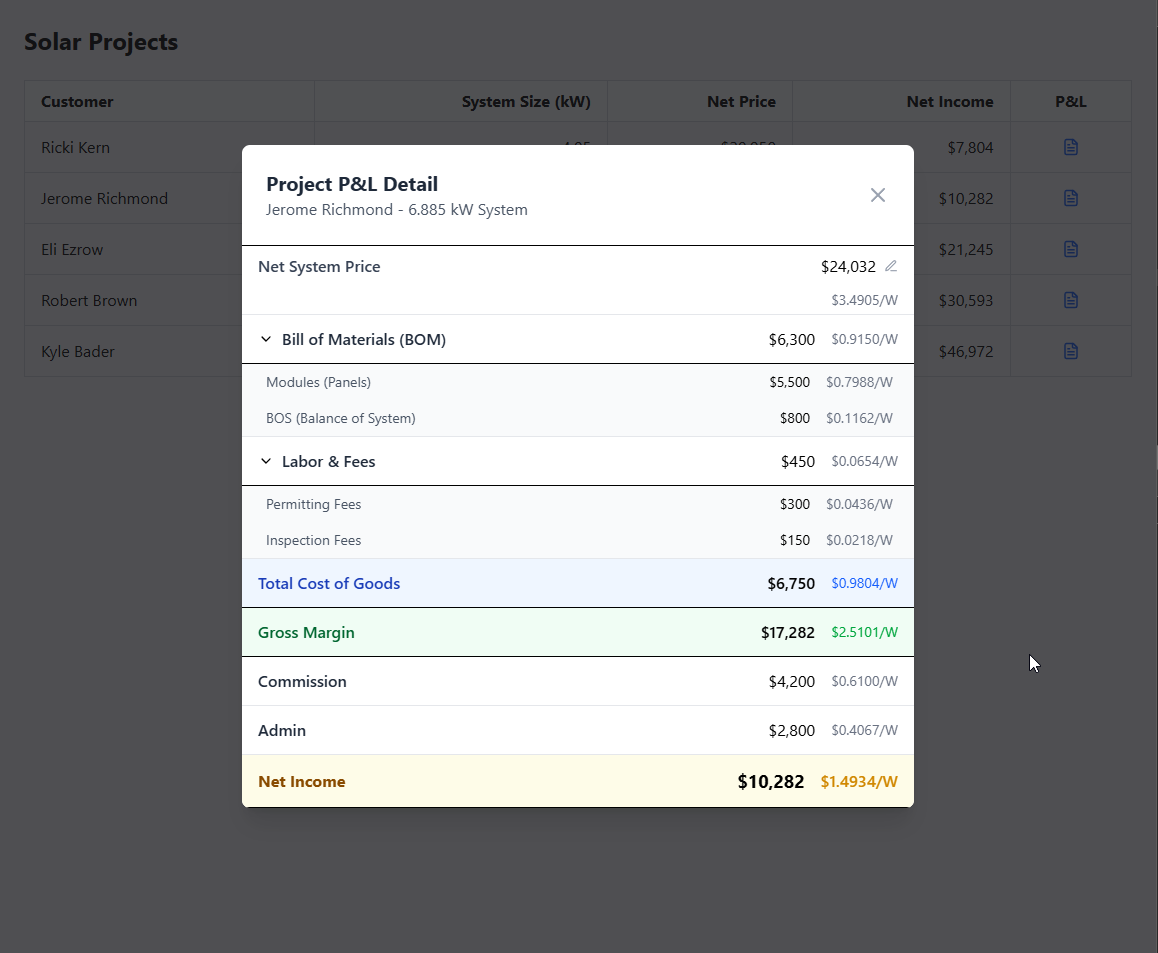
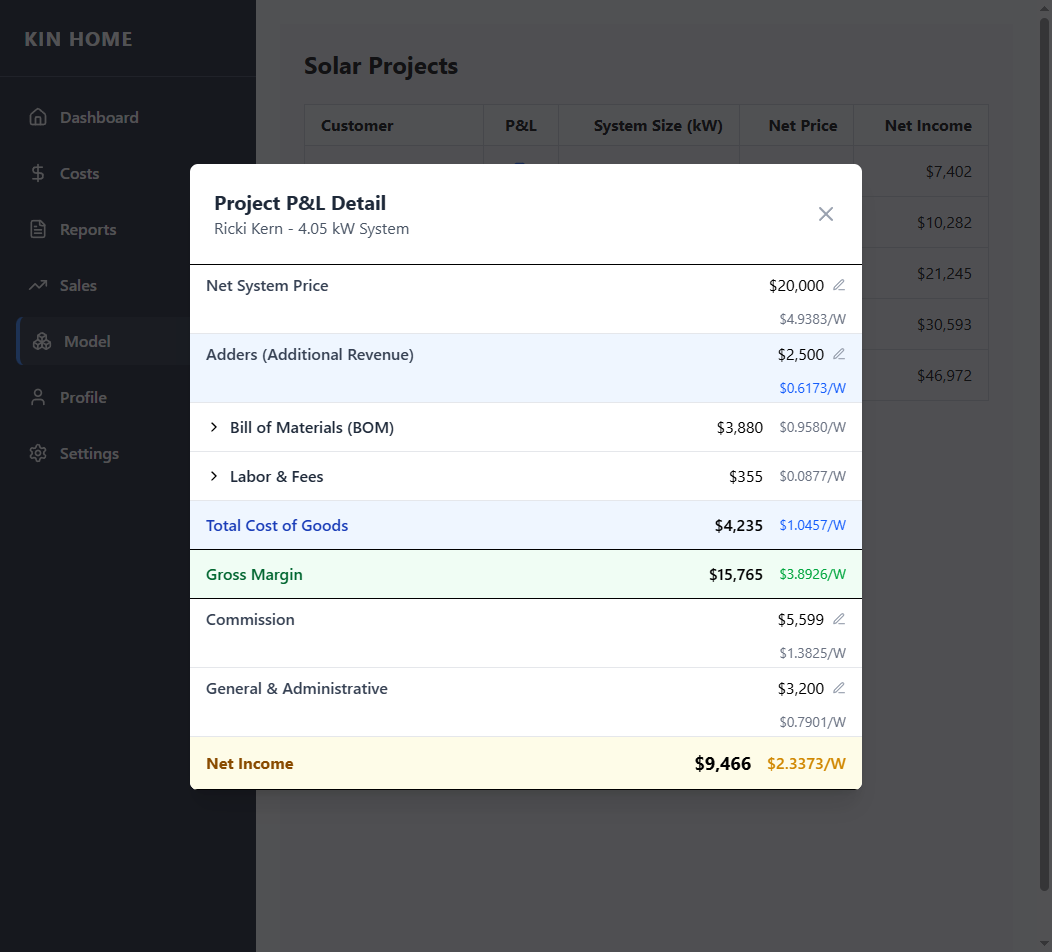
feat: model page - added columns, editing certain columns affects others, works

diff --git a/src/lib/components/ProjectPLModal.svelte b/src/lib/components/ProjectPLModal.svelte
@@ -19,6 +19,19 @@
 	// Get breakdown by category
 	const bomBreakdown = $derived(breakdown.find((b) => b.categoryName === 'BOM'));
 	const laborBreakdown = $derived(breakdown.find((b) => b.categoryName === 'Labor'));
+	const commissionBreakdown = $derived(breakdown.find((b) => b.categoryName === 'Commission'));
+	const adminBreakdown = $derived(breakdown.find((b) => b.categoryName === 'Admin'));
+	const addersBreakdown = $derived(breakdown.find((b) => b.categoryName === 'Adders'));
+
+	// Get current values for commission, admin, and adders
+	const commissionAmount = $derived(commissionBreakdown?.total || 0);
+	const adminAmount = $derived(adminBreakdown?.total || 0);
+	const addersAmount = $derived(addersBreakdown?.total || 0);
+
+	// Recalculated values based on current data
+	const totalCogs = $derived((calculations?.totalCogs || 0));
+	const grossMargin = $derived((project?.netSystemPrice || 0) - totalCogs);
+	const netIncome = $derived(grossMargin - commissionAmount - adminAmount + addersAmount);
 </script>
 
 {#snippet EditableField(label: string, field: string, value: number, isPerWatt: boolean = false)}
@@ -112,7 +125,7 @@
 	<div
 		class="bg-[hsl(229.85deg_4.98%_9.89%_/_75%)] bg-opacity-50 fixed inset-0 z-50 flex items-center justify-center"
 	>
-		<div class="max-h-[90vh] w-full max-w-2xl overflow-hidden rounded-lg bg-white shadow-xl">
+		<div class="max-h-[92vh] w-full max-w-2xl overflow-hidden rounded-lg bg-white shadow-xl">
 			<div class="flex items-center justify-between border-b p-6">
 				<div>
 					<h2 class="text-xl font-bold text-gray-800">Project P&L Detail</h2>
@@ -132,6 +145,14 @@
 					{@render EditableField('Net System Price', 'netSystemPrice', project.netSystemPrice)}
 					<div class="px-4 py-1 text-right text-sm text-gray-500">
 						${(project.netSystemPrice / watts).toFixed(4)}/W
+					</div>
+				</div>
+
+				<!-- Adders Section (Revenue) -->
+				<div class="border-b border-gray-200 bg-blue-50">
+					{@render EditableField('Adders (Additional Revenue)', 'lineItem-18', addersAmount)}
+					<div class="px-4 py-1 text-right text-sm text-blue-600">
+						${(addersAmount / watts).toFixed(4)}/W
 					</div>
 				</div>
 
@@ -173,42 +194,42 @@
 						<div class="flex items-center justify-between px-4 py-3">
 							<span class="font-semibold text-green-800">Gross Margin</span>
 							<div class="flex items-center gap-4">
-								<span class="font-semibold">${calculations.grossMargin.toLocaleString()}</span>
+								<span class="font-semibold">${grossMargin.toLocaleString()}</span>
 								<span class="text-sm text-green-600"
-									>${calculations.perWattCosts.grossMarginPerWatt.toFixed(4)}/W</span
+									>${(grossMargin / watts).toFixed(4)}/W</span
 								>
 							</div>
 						</div>
 					</div>
 				{/if}
 
-				<!-- Operating Expenses (if available in breakdown) -->
-				{#each breakdown.filter((b) => b.categoryName === 'Commission' || b.categoryName === 'Admin') as category}
-					<div class="border-b border-gray-200">
-						<div class="flex items-center justify-between px-4 py-3">
-							<span class="font-semibold text-gray-800">{category.categoryName}</span>
-							<div class="flex items-center gap-4">
-								<span class="text-right">${category.total.toLocaleString()}</span>
-								<span class="text-sm text-gray-500">${(category.total / watts).toFixed(4)}/W</span>
-							</div>
-						</div>
+				<!-- Operating Expenses -->
+				<div class="border-b border-gray-200">
+					{@render EditableField('Commission', 'lineItem-16', commissionAmount)}
+					<div class="px-4 py-1 text-right text-sm text-gray-500">
+						${(commissionAmount / watts).toFixed(4)}/W
 					</div>
-				{/each}
+				</div>
 
-				{#if calculations}
-					<!-- Net Income -->
-					<div class="border-b bg-yellow-50">
-						<div class="flex items-center justify-between px-4 py-3">
-							<span class="font-bold text-yellow-800">Net Income</span>
-							<div class="flex items-center gap-4">
-								<span class="text-lg font-bold">${calculations.netIncome.toLocaleString()}</span>
-								<span class="font-medium text-yellow-600"
-									>${calculations.perWattCosts.netIncomePerWatt.toFixed(4)}/W</span
-								>
-							</div>
+				<div class="border-b border-gray-200">
+					{@render EditableField('General & Administrative', 'lineItem-17', adminAmount)}
+					<div class="px-4 py-1 text-right text-sm text-gray-500">
+						${(adminAmount / watts).toFixed(4)}/W
+					</div>
+				</div>
+
+				<!-- Net Income -->
+				<div class="border-b bg-yellow-50">
+					<div class="flex items-center justify-between px-4 py-3">
+						<span class="font-bold text-yellow-800">Net Income</span>
+						<div class="flex items-center gap-4">
+							<span class="text-lg font-bold">${netIncome.toLocaleString()}</span>
+							<span class="font-medium text-yellow-600"
+								>${(netIncome / watts).toFixed(4)}/W</span
+							>
 						</div>
 					</div>
-				{/if}
+				</div>
 			</div>
 		</div>
 	</div>

diff --git a/scripts/seed.ts b/scripts/seed.ts
@@ -34,7 +34,8 @@ export async function seedDatabase() {
 			{ id: 2, name: 'Labor', description: 'Labor and Installation Costs', sortOrder: 2 },
 			{ id: 3, name: 'Fees', description: 'Permits and Administrative Fees', sortOrder: 3 },
 			{ id: 4, name: 'Commission', description: 'Sales Commission', sortOrder: 4 },
-			{ id: 5, name: 'Admin', description: 'General & Administrative', sortOrder: 5 }
+			{ id: 5, name: 'Admin', description: 'General & Administrative', sortOrder: 5 },
+			{ id: 6, name: 'Adders', description: 'Additional Project Revenue/Costs', sortOrder: 6 }
 		]);
 
 		// Seed cost line items
@@ -71,7 +72,9 @@ export async function seedDatabase() {
 			{ id: 15, categoryId: 3, accountCode: null, name: 'Utility Connection', sortOrder: 2 },
 			// Commission & Admin
 			{ id: 16, categoryId: 4, accountCode: null, name: 'Sales Commission', sortOrder: 1 },
-			{ id: 17, categoryId: 5, accountCode: null, name: 'General & Administrative', sortOrder: 1 }
+			{ id: 17, categoryId: 5, accountCode: null, name: 'General & Administrative', sortOrder: 1 },
+			// Adders
+			{ id: 18, categoryId: 6, accountCode: null, name: 'Adders', sortOrder: 1 }
 		]);
 
 		// Seed sample projects
@@ -133,6 +136,7 @@ export async function seedDatabase() {
 			{ projectId: 1, lineItemId: 10, amount: 0.0 }, // Interconnection
 			{ projectId: 1, lineItemId: 16, amount: 5599.0 }, // Commission
 			{ projectId: 1, lineItemId: 17, amount: 3312.0 }, // G&A
+			{ projectId: 1, lineItemId: 18, amount: 2500.0 }, // Adders (e.g., tree removal)
 
 			// Jerome Richmond (ID: 2) - basic costs
 			{ projectId: 2, lineItemId: 1, amount: 5500.0 }, // Modules
@@ -141,6 +145,7 @@ export async function seedDatabase() {
 			{ projectId: 2, lineItemId: 9, amount: 150.0 }, // Inspection
 			{ projectId: 2, lineItemId: 16, amount: 4200.0 }, // Commission
 			{ projectId: 2, lineItemId: 17, amount: 2800.0 }, // G&A
+			{ projectId: 2, lineItemId: 18, amount: 1800.0 }, // Adders (e.g., roof repair)
 
 			// Eli Ezrow (ID: 3) - basic costs
 			{ projectId: 3, lineItemId: 1, amount: 11000.0 }, // Modules
@@ -148,7 +153,8 @@ export async function seedDatabase() {
 			{ projectId: 3, lineItemId: 7, amount: 450.0 }, // Permitting
 			{ projectId: 3, lineItemId: 9, amount: 200.0 }, // Inspection
 			{ projectId: 3, lineItemId: 16, amount: 8500.0 }, // Commission
-			{ projectId: 3, lineItemId: 17, amount: 5200.0 } // G&A
+			{ projectId: 3, lineItemId: 17, amount: 5200.0 }, // G&A
+			{ projectId: 3, lineItemId: 18, amount: 0.0 } // No adders
 		]);
 
 		// Seed budget targets (per watt targets)
@@ -159,7 +165,8 @@ export async function seedDatabase() {
 			{ lineItemId: 4, targetPerWatt: 0.0 }, // Warranty target
 			{ lineItemId: 5, targetPerWatt: 0.068 }, // BOS target
 			{ lineItemId: 7, targetPerWatt: 0.066 }, // Permitting target
-			{ lineItemId: 9, targetPerWatt: 0.059 } // Inspection target
+			{ lineItemId: 9, targetPerWatt: 0.059 }, // Inspection target
+			{ lineItemId: 18, targetPerWatt: 0.0 } // Adders target (varies by project)
 		]);
 
 		console.log('Database seeded successfully!');

diff --git a/src/lib/components/scaffolds/sidebar.svelte b/src/lib/components/scaffolds/sidebar.svelte
@@ -18,19 +18,19 @@
 	}
 
 	const navItems: NavItem[] = [
-		{ icon: Home, label: 'Dashboard', href: '/', isActive: true },
+		{ icon: Home, label: 'Dashboard', href: '/' },
 		{ icon: DollarSign, label: 'Costs', href: '/' },
 		{ icon: FileText, label: 'Reports', href: '/' },
 		{ icon: TrendingUp, label: 'Sales', href: '/' },
-		{ icon: Boxes, label: 'Model', href: '/' },
+		{ icon: Boxes, label: 'Model', href: '/', isActive: true },
 		{ icon: User, label: 'Profile', href: '/' },
 		{ icon: Settings, label: 'Settings', href: '/' }
 	];
 </script>
 
-<aside class="w-64 bg-gray-900 text-white h-screen flex flex-col">
+<aside class="flex h-screen w-64 flex-col bg-gray-900 text-white">
 	<!-- Header -->
-	<div class="p-6 border-b border-gray-700">
+	<div class="border-b border-gray-700 p-6">
 		<h1 class="text-xl font-bold tracking-wider">KIN HOME</h1>
 	</div>
 
@@ -41,11 +41,11 @@
 				<li>
 					<a
 						href={item.href}
-						class="flex items-center space-x-3 p-3 rounded-lg transition-colors duration-200 hover:bg-gray-800 {item.isActive
-							? 'bg-gray-800 border-l-4 border-blue-500'
+						class="flex items-center space-x-3 rounded-lg p-3 transition-colors duration-200 hover:bg-gray-800 {item.isActive
+							? 'border-l-4 border-blue-500 bg-gray-800'
 							: ''}"
 					>
-						<svelte:component this={item.icon} class="w-5 h-5" />
+						<svelte:component this={item.icon} class="h-5 w-5" />
 						<span class="font-medium">{item.label}</span>
 					</a>
 				</li>

diff --git a/src/lib/server/projectService.ts b/src/lib/server/projectService.ts
@@ -147,10 +147,12 @@ export class ProjectService {
 		const laborTotal = breakdown.find((b) => b.categoryName === 'Labor')?.total || 0;
 		const commissionTotal = breakdown.find((b) => b.categoryName === 'Commission')?.total || 0;
 		const adminTotal = breakdown.find((b) => b.categoryName === 'Admin')?.total || 0;
+		const addersTotal = breakdown.find((b) => b.categoryName === 'Adders')?.total || 0;
 
 		const totalCogs = bomTotal + laborTotal;
 		const grossMargin = projectWithCosts.netSystemPrice - totalCogs;
-		const netIncome = grossMargin - commissionTotal - adminTotal;
+		// Adders are added to income (positive value increases net income)
+		const netIncome = grossMargin - commissionTotal - adminTotal + addersTotal;
 
 		return {
 			bomTotal,

diff --git a/src/lib/stores/projectContext.svelte.ts b/src/lib/stores/projectContext.svelte.ts
@@ -98,8 +98,8 @@ export class ProjectContextClass {
 
 		if (this.editingField.field === 'netSystemPrice') {
 			await this.updateProjectPrice(numValue);
-		} else {
-			// Extract line item ID from field name (e.g., 'lineItem-5' -> 5)
+		} else if (this.editingField.field.startsWith('lineItem-')) {
+			// Extract line item ID from field name (e.g., 'lineItem-16' -> 16)
 			const lineItemId = parseInt(this.editingField.field.split('-')[1]);
 			await this.updateProjectCost(lineItemId, numValue);
 		}
